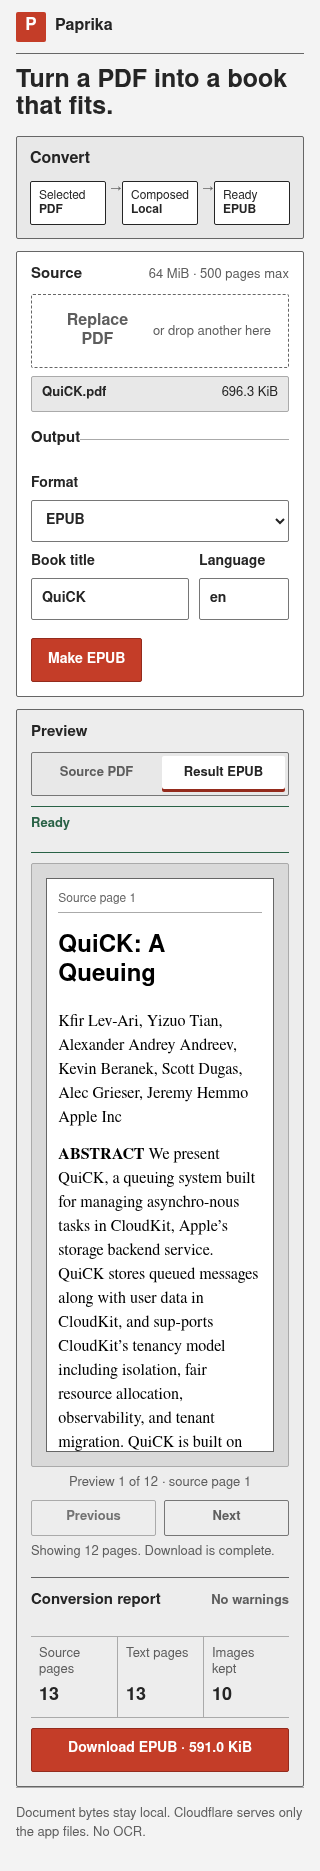
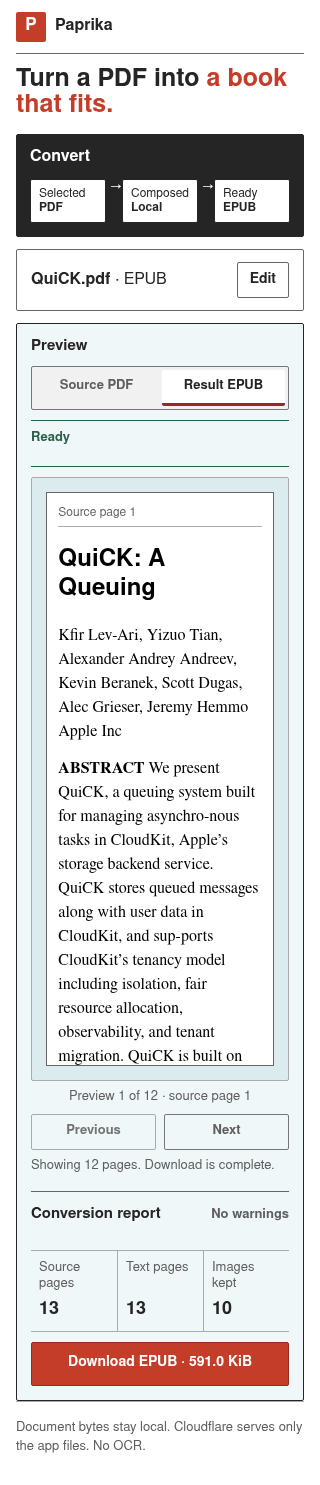
fix: restore visual energy to the app

diff --git a/web/src/styles.css b/web/src/styles.css
@@ -1,9 +1,11 @@
 :root {
   color-scheme: light;
-  --paper: #f3f3f3;
+  --paper: #ffffff;
   --surface: #ffffff;
-  --surface-muted: #e8e8e8;
-  --surface-strong: #d8d8d8;
+  --surface-muted: #f1f1f1;
+  --surface-strong: #dddddd;
+  --proof-surface: #f0f7f8;
+  --proof-stage: #dcebed;
   --ink: #252525;
   --muted: #5e5e5e;
   --border: #aaaaaa;
@@ -130,8 +132,12 @@ p {
 h1 {
   margin-bottom: 0;
   font-size: clamp(30px, 3.6vw, 46px);
-  font-weight: 760;
-  line-height: 1.08;
+  font-weight: 800;
+  line-height: 1.04;
+}
+
+h1 span {
+  color: var(--paprika);
 }
 
 .task-intro p {
@@ -153,9 +159,10 @@ h1 {
   gap: 32px;
   margin-bottom: 12px;
   padding: 14px 18px;
-  border: 1px solid var(--border-strong);
+  border: 1px solid var(--ink);
   border-radius: var(--radius-panel);
-  background: var(--surface-muted);
+  color: white;
+  background: var(--ink);
 }
 
 .workbench-header h2,
@@ -196,7 +203,7 @@ h1 {
   position: absolute;
   left: -18px;
   content: "→";
-  color: var(--border-strong);
+  color: white;
   font-size: 15px;
 }
 
@@ -213,8 +220,9 @@ h1 {
 }
 
 .conversion-route li[data-state="current"] {
-  border-color: var(--paprika);
-  color: var(--paprika-dark);
+  border-color: var(--paprika-dark);
+  color: white;
+  background: var(--paprika);
 }
 
 .conversion-route li[data-state="done"] {
@@ -275,8 +283,28 @@ h1 {
   background: var(--surface);
 }
 
+.ready-summary {
+  display: none;
+  align-items: center;
+  justify-content: space-between;
+  gap: 16px;
+}
+
+.ready-summary > span {
+  min-width: 0;
+  overflow: hidden;
+  text-overflow: ellipsis;
+  white-space: nowrap;
+}
+
+.ready-summary .secondary-button {
+  min-height: 36px;
+  padding: 7px 12px;
+}
+
 .preview-panel {
-  background: #ededed;
+  border-color: var(--ink);
+  background: var(--proof-surface);
 }
 
 .section-heading,
@@ -569,6 +597,7 @@ button:disabled {
   min-height: 36px;
   padding: 7px 11px;
   border: 0;
+  border-bottom: 3px solid transparent;
   color: var(--muted);
   background: transparent;
   font-size: 13px;
@@ -581,9 +610,9 @@ button:disabled {
 }
 
 .preview-tab[aria-pressed="true"] {
+  border-bottom-color: var(--paprika-dark);
   color: var(--ink);
   background: var(--surface);
-  box-shadow: inset 0 -3px 0 var(--paprika-dark);
 }
 
 .preview-tab:disabled,
@@ -710,7 +739,7 @@ progress {
   overflow: hidden;
   border: 1px solid var(--border);
   border-radius: var(--radius-control);
-  background: #d9d9d9;
+  background: var(--proof-stage);
 }
 
 .sheet-placeholder {
@@ -733,7 +762,7 @@ progress {
 
 .reader-page {
   aspect-ratio: 0.64;
-  border: 2px solid var(--ink);
+  border: 3px solid var(--paprika);
   border-radius: var(--radius-control);
 }
 
@@ -983,6 +1012,21 @@ footer {
   .app-shell[data-has-file="true"] .workbench-body,
   .app-shell[data-has-output="true"] .workbench-body {
     grid-template-columns: minmax(0, 1fr);
+  }
+
+  .app-shell[data-has-output="true"]:not([data-editing-output="true"]) .job-panel {
+    padding-block: 12px;
+  }
+
+  .app-shell[data-has-output="true"]:not([data-editing-output="true"]) .ready-summary {
+    display: flex;
+  }
+
+  .app-shell[data-has-output="true"]:not([data-editing-output="true"]) .source-fields,
+  .app-shell[data-has-output="true"]:not([data-editing-output="true"]) .output-fields,
+  .app-shell[data-has-output="true"]:not([data-editing-output="true"]) .advanced-options,
+  .app-shell[data-has-output="true"]:not([data-editing-output="true"]) .actions {
+    display: none;
   }
 
   /* At high browser zoom levels the effective workbench width contracts. Keep

diff --git a/web/src/app.js b/web/src/app.js
@@ -17,6 +17,10 @@ const dropHelp = document.querySelector("#drop-help");
 const fileFacts = document.querySelector("#file-facts");
 const fileName = document.querySelector("#file-name");
 const fileSize = document.querySelector("#file-size");
+const readySummary = document.querySelector("#ready-summary");
+const readyFile = document.querySelector("#ready-file");
+const readyFormat = document.querySelector("#ready-format");
+const editSettings = document.querySelector("#edit-settings");
 const convertButton = document.querySelector("#convert");
 const cancelButton = document.querySelector("#cancel");
 const download = document.querySelector("#download");
@@ -256,6 +260,8 @@ function clearSelectedFile() {
   dropHelp.textContent = "or drop one here";
   appShell.dataset.hasFile = "false";
   appShell.dataset.hasOutput = "false";
+  delete appShell.dataset.editingOutput;
+  readySummary.hidden = true;
   showEmptyPreview();
 }
 
@@ -317,6 +323,8 @@ function clearConversionReport() {
 
 function clearDownload() {
   appShell.dataset.hasOutput = "false";
+  delete appShell.dataset.editingOutput;
+  readySummary.hidden = true;
   blankPreviewFrame();
   epubPreview.clear();
   if (outputUrl) URL.revokeObjectURL(outputUrl);
@@ -480,6 +488,11 @@ function invalidateCompletedOutput() {
 
 previewSource.addEventListener("click", showSourcePreview);
 previewOutput.addEventListener("click", () => showOutputPreview());
+editSettings.addEventListener("click", () => {
+  appShell.dataset.editingOutput = "true";
+  readySummary.hidden = true;
+  format.focus();
+});
 previewPrevious.addEventListener("click", () => showOutputPreview(epubPreview.chapterIndex - 1));
 previewNext.addEventListener("click", () => showOutputPreview(epubPreview.chapterIndex + 1));
 
@@ -726,6 +739,10 @@ function completeJob(message) {
     images: message.imageCount,
     warnings: message.warnings,
   });
+  readyFile.textContent = selectedFile?.name ?? "PDF";
+  readyFormat.textContent = label;
+  readySummary.hidden = false;
+  delete appShell.dataset.editingOutput;
   appShell.dataset.hasOutput = "true";
   setFlow("success");
   setStatus("Ready", "", "success");

diff --git a/web/src/index.html b/web/src/index.html
@@ -3,7 +3,7 @@
   <head>
     <meta charset="UTF-8" />
     <meta name="viewport" content="width=device-width, initial-scale=1" />
-    <meta name="theme-color" content="#f3f3f3" />
+    <meta name="theme-color" content="#ffffff" />
     <meta
       name="description"
       content="Convert born-digital PDFs to compact, reflowable EPUB books locally in your browser."
@@ -22,7 +22,7 @@
 
     <main id="app-shell" class="app-shell" data-has-file="false" data-has-output="false">
       <section class="task-intro" aria-labelledby="page-title">
-        <h1 id="page-title">Turn a PDF into a book that fits.</h1>
+        <h1 id="page-title">Turn a PDF into <span>a book that fits.</span></h1>
         <p>Local PDF → EPUB. Preview before download.</p>
       </section>
 
@@ -47,6 +47,11 @@
 
         <div class="workbench-body">
           <form id="job-form" class="job-panel">
+            <div id="ready-summary" class="ready-summary" hidden>
+              <span><strong id="ready-file"></strong> · <span id="ready-format"></span></span>
+              <button id="edit-settings" class="secondary-button" type="button">Edit</button>
+            </div>
+
             <section class="source-fields" aria-labelledby="source-title">
               <div class="section-heading">
                 <h3 id="source-title">Source</h3>

diff --git a/scripts/e2e/paprika.spec.ts b/scripts/e2e/paprika.spec.ts
@@ -107,6 +107,13 @@ test("converts and downloads an EPUB with report metadata", async ({ page }) => 
   await expect(page.locator("#download")).toBeVisible();
   await expect(page.locator("#preview-output")).toBeEnabled();
 
+  await page.setViewportSize({ width: 320, height: 844 });
+  await expect(page.locator("#ready-summary")).toBeVisible();
+  await expect(page.locator("#ready-file")).toHaveText("fixture.pdf");
+  await expect(page.locator(".source-fields")).toBeHidden();
+  await page.locator("#edit-settings").click();
+  await expect(page.locator(".source-fields")).toBeVisible();
+
   const downloadPromise = page.waitForEvent("download");
   await page.locator("#download").click();
   const download = await downloadPromise;

diff --git a/web/src/404.html b/web/src/404.html
@@ -3,7 +3,7 @@
   <head>
     <meta charset="UTF-8" />
     <meta name="viewport" content="width=device-width, initial-scale=1" />
-    <meta name="theme-color" content="#f3f3f3" />
+    <meta name="theme-color" content="#ffffff" />
     <link rel="icon" href="/favicon.svg" type="image/svg+xml" />
     <link rel="stylesheet" href="/styles.css" />
     <title>Page not found | Paprika</title>

diff --git a/docs/audit-validation.md b/docs/audit-validation.md
@@ -56,7 +56,7 @@ The [feature-branch workflow history](https://github.com/angristan/paprika/actio
 Two consecutive executions of `scripts/build-web-cloudflare.sh` produced the same aggregate SHA-256 over every file in `web/dist/`:
 
 ```text
[2 lines of base64/hex data omitted]
 ```
 
 The first execution populated the cache. The second finished without Rust compilation and restored verified WASM cache entry:
@@ -75,7 +75,7 @@ The following screenshots were captured from a fresh local `web/dist/` build at 
 
 ![Desktop empty state](screenshots/desktop-empty.png)
 
-The first viewport has one clear conversion task, a compact source-to-result route, adjacent controls and preview, and visible privacy context. The design uses typography, rules, and restrained Paprika red instead of gradients, glass, floating cards, fake metrics, feature tiles, or oversized marketing copy.
+The first viewport has one clear conversion task, a compact source-to-result route, adjacent controls and preview, and concise privacy context. A high-contrast conversion rail, Paprika active state, and cool proofing field add energy without gradients, glass, floating cards, fake metrics, feature tiles, or oversized marketing copy.
 
 ### Desktop, completed EPUB
 
@@ -87,13 +87,13 @@ The completed state condenses source and output controls into one composition ba
 
 ![Mobile result at 320 CSS pixels](screenshots/mobile-result-320px.png)
 
-The workflow becomes one column without horizontal scrolling. Controls retain visible labels and usable target sizes; status, preview navigation, report, warnings, download, limitations, and privacy remain in document order.
+The workflow becomes one column without horizontal scrolling. A compact file/format summary puts the result in the first viewport; **Edit** restores the full labeled controls. Preview navigation, report, warnings, download, and privacy remain in document order.
 
 ### 200% zoom
 
 ![Result at 200 percent zoom](screenshots/zoom-200-percent.png)
 
-At 200% zoom the same task order remains usable without horizontal document overflow. Controls, preview, report, download, limitations, and privacy stay reachable. Text wraps or truncates only inside explicitly bounded compact route/control labels.
+At 200% zoom the same task order remains usable without horizontal document overflow. Controls, preview, report, download, and privacy stay reachable. Text wraps or truncates only inside explicitly bounded compact route/control labels.
 
 The automated axe scan found no WCAG 2 A/AA or WCAG 2.1 A/AA violations in Chromium, Firefox, or WebKit. The CSS also provides visible `:focus-visible` treatment, at least 44-pixel primary control targets, semantic native controls, live status regions, and a reduced-motion override.
 
@@ -105,10 +105,10 @@ The rendered states were re-audited against the complete [Impeccable slop catalo
 - condenses the completed desktop form above the result, eliminating the empty source column;
 - removes duplicate status, helper, limitation, and privacy copy;
 - limits EPUB prose measure and gives the remaining footer text explicit leading;
-- uses a strictly neutral surface scale and 16-pixel narrow-screen gutters; and
+- uses a white canvas, ink conversion rail, Paprika active state, cool proofing surfaces, and 16-pixel narrow-screen gutters; and
 - documents every application font, color, radius, and type-size role in `DESIGN.md`.
 
-Two apparent catalogue matches are intentional and semantic: Paprika red marks only current/selected states, and the empty PDF → EPUB sheet diagram explains the conversion rather than decorating empty space. The serif text inside the preview belongs to the generated EPUB, not the application type system.
+Two apparent catalogue matches are intentional and semantic: Paprika red marks identity, current state, and primary actions, and the empty PDF → EPUB sheet diagram explains the conversion rather than decorating empty space. The serif text inside the preview belongs to the generated EPUB, not the application type system.
 
 ## Documentation review
 

diff --git a/DESIGN.md b/DESIGN.md
@@ -25,7 +25,7 @@ The initial viewport must not be padded to fill the screen. Content height follo
 
 ## Visual system
 
-- **Color:** use the neutral scale `#ffffff`, `#f3f3f3`, `#ededed`, `#e8e8e8`, `#d9d9d9`, `#d8d8d8`, `#aaaaaa`, `#767676`, `#737373`, `#666666`, `#5e5e5e`, and `#252525`. Paprika action/state colors are `#c43d28` and `#942b1d`; success is `#296246` and error is `#a32d21`. Pale `#fff7f5` and `#fff4f1` surfaces are reserved for interactive hover and error feedback. Do not use cream, beige, parchment, sepia, or warm-paper palettes.
+- **Color:** use the neutral scale `#ffffff`, `#f1f1f1`, `#ededed`, `#dddddd`, `#aaaaaa`, `#767676`, `#737373`, `#666666`, `#5e5e5e`, and `#252525`. Cool proofing surfaces `#f0f7f8` and `#dcebed` are reserved for the document preview. Paprika identity/action colors `#c43d28` and `#942b1d` may mark the title outcome, active conversion step, primary action, and current selection; success is `#296246` and error is `#a32d21`. Pale `#fff7f5` and `#fff4f1` surfaces are reserved for interactive hover and error feedback. Do not use cream, beige, parchment, sepia, or warm-paper palettes.
 - **Type:** use the operating system UI stack for application chrome and explanatory copy. Use monospace only for real machine values such as byte counts, dimensions, job identifiers, and technical status. The generated EPUB preview is document content rather than application chrome and may use the reader-oriented serif/sans-serif styles packaged with the book. Do not use or imitate Inter. Do not use crushed letter spacing.
 - **Scale:** core UI text uses 13, 14, 15, 16, 19, and 20 px steps. Twelve pixels is reserved for compact route/header text at narrow effective widths; 17 and 18 px are limited to the mark and compact result values. Task headings use 25 or 30 px at narrow widths and a responsive 30–48 px range on wide screens. The page title must read as a task heading, not an oversized hero statement.
 - **Shape:** controls and surfaces are square or use at most a 2 px radius. Shape must communicate grouping or affordance, not decoration.
